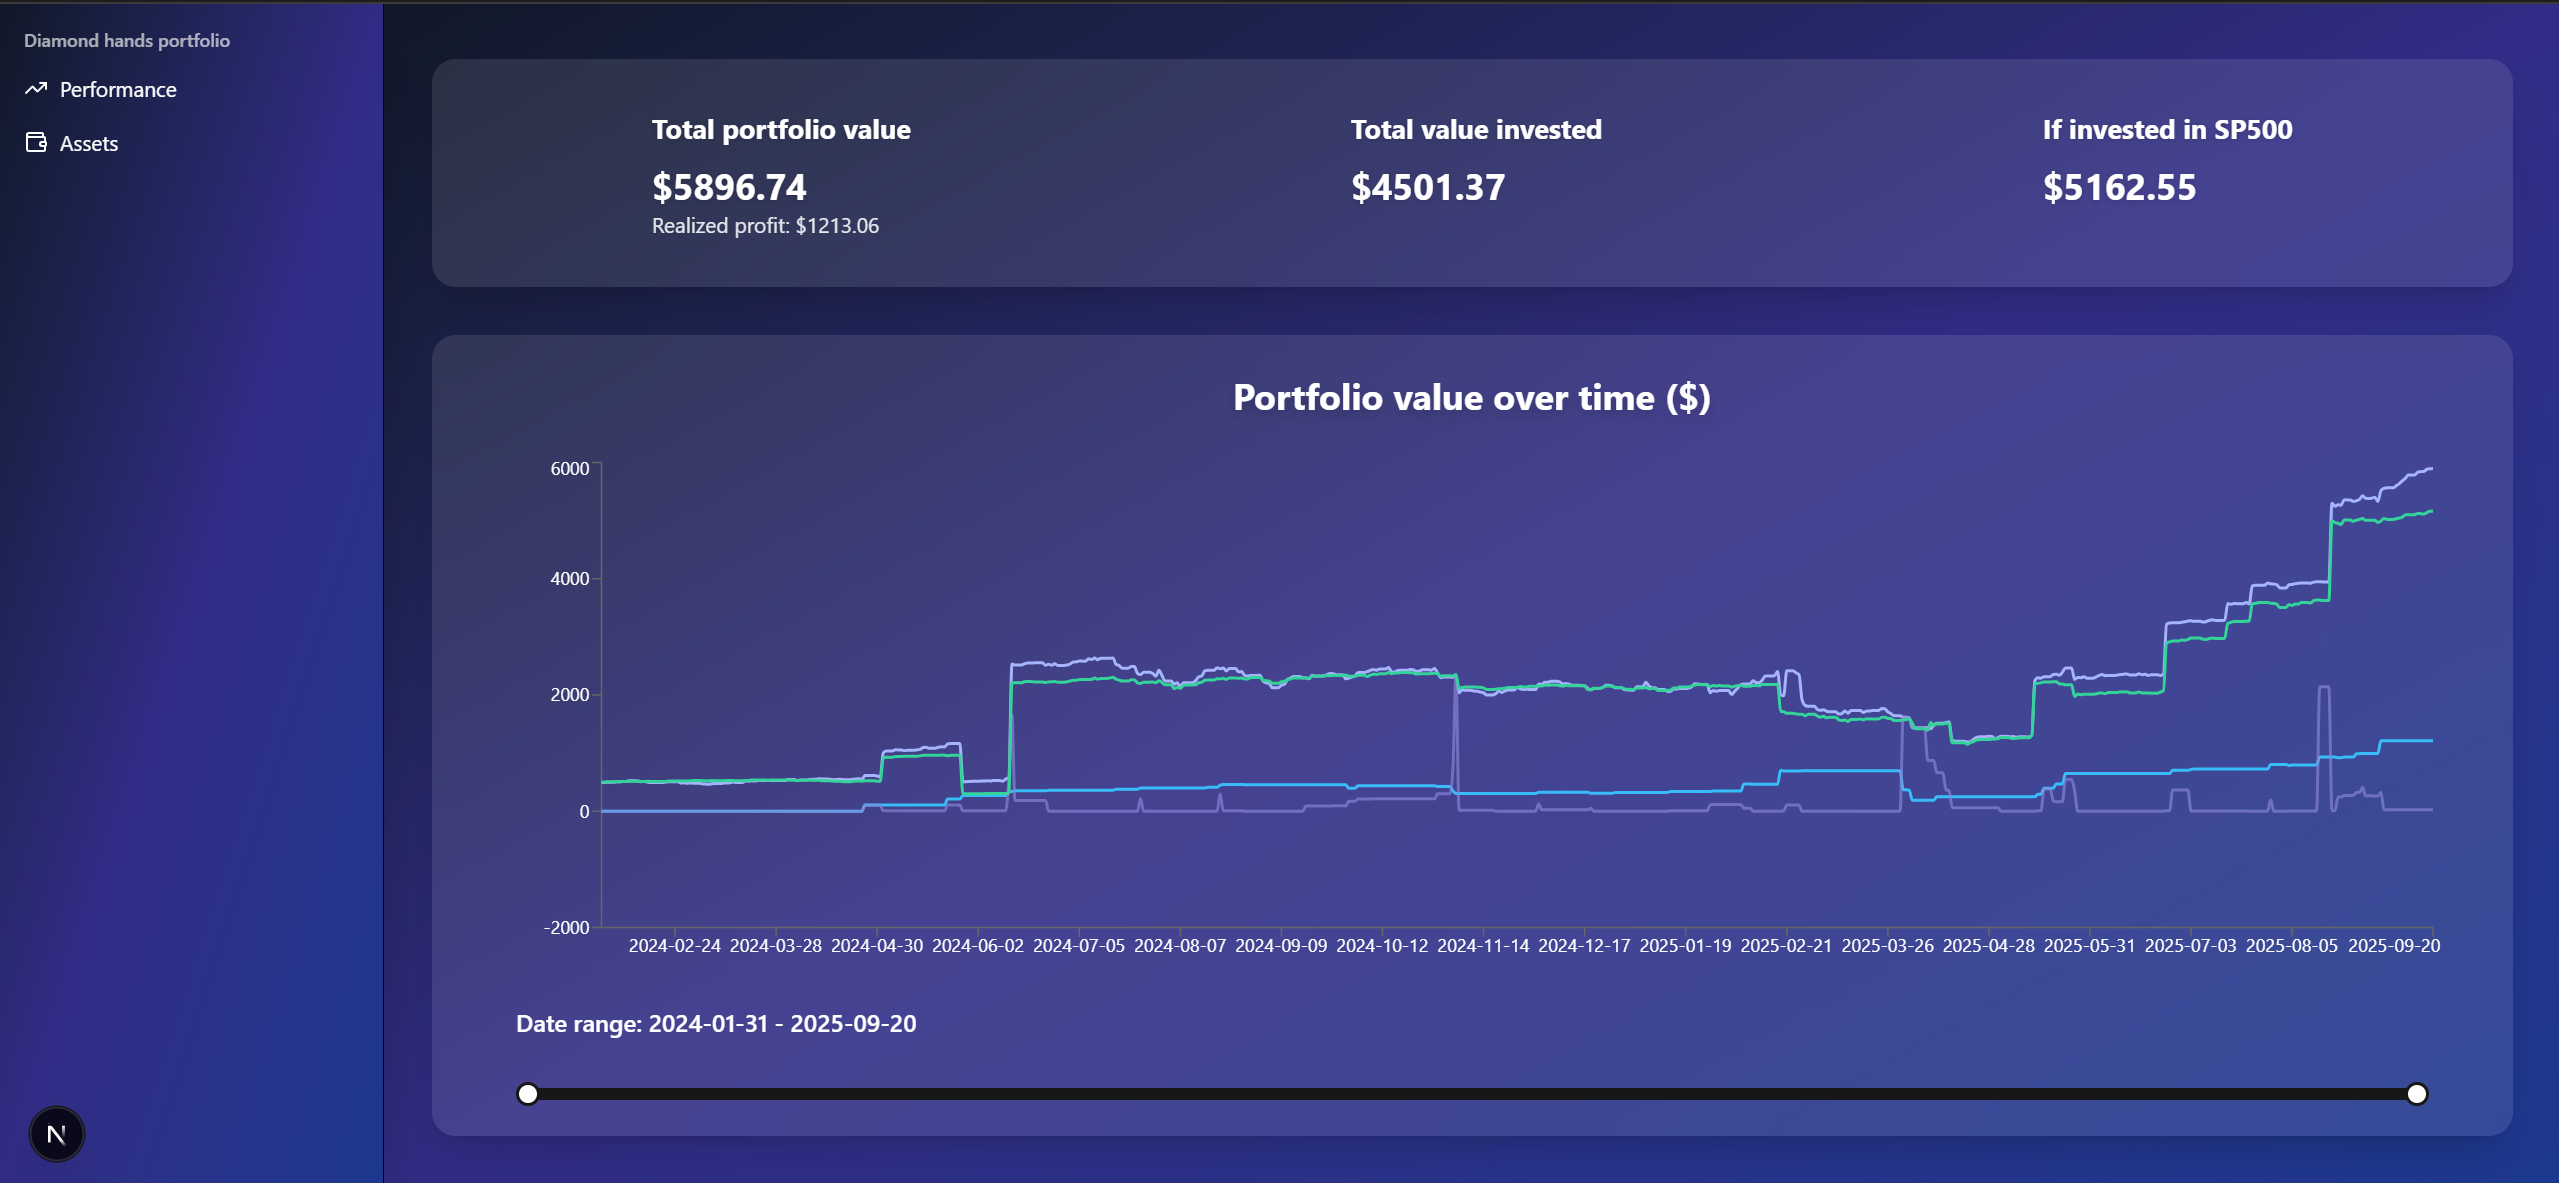
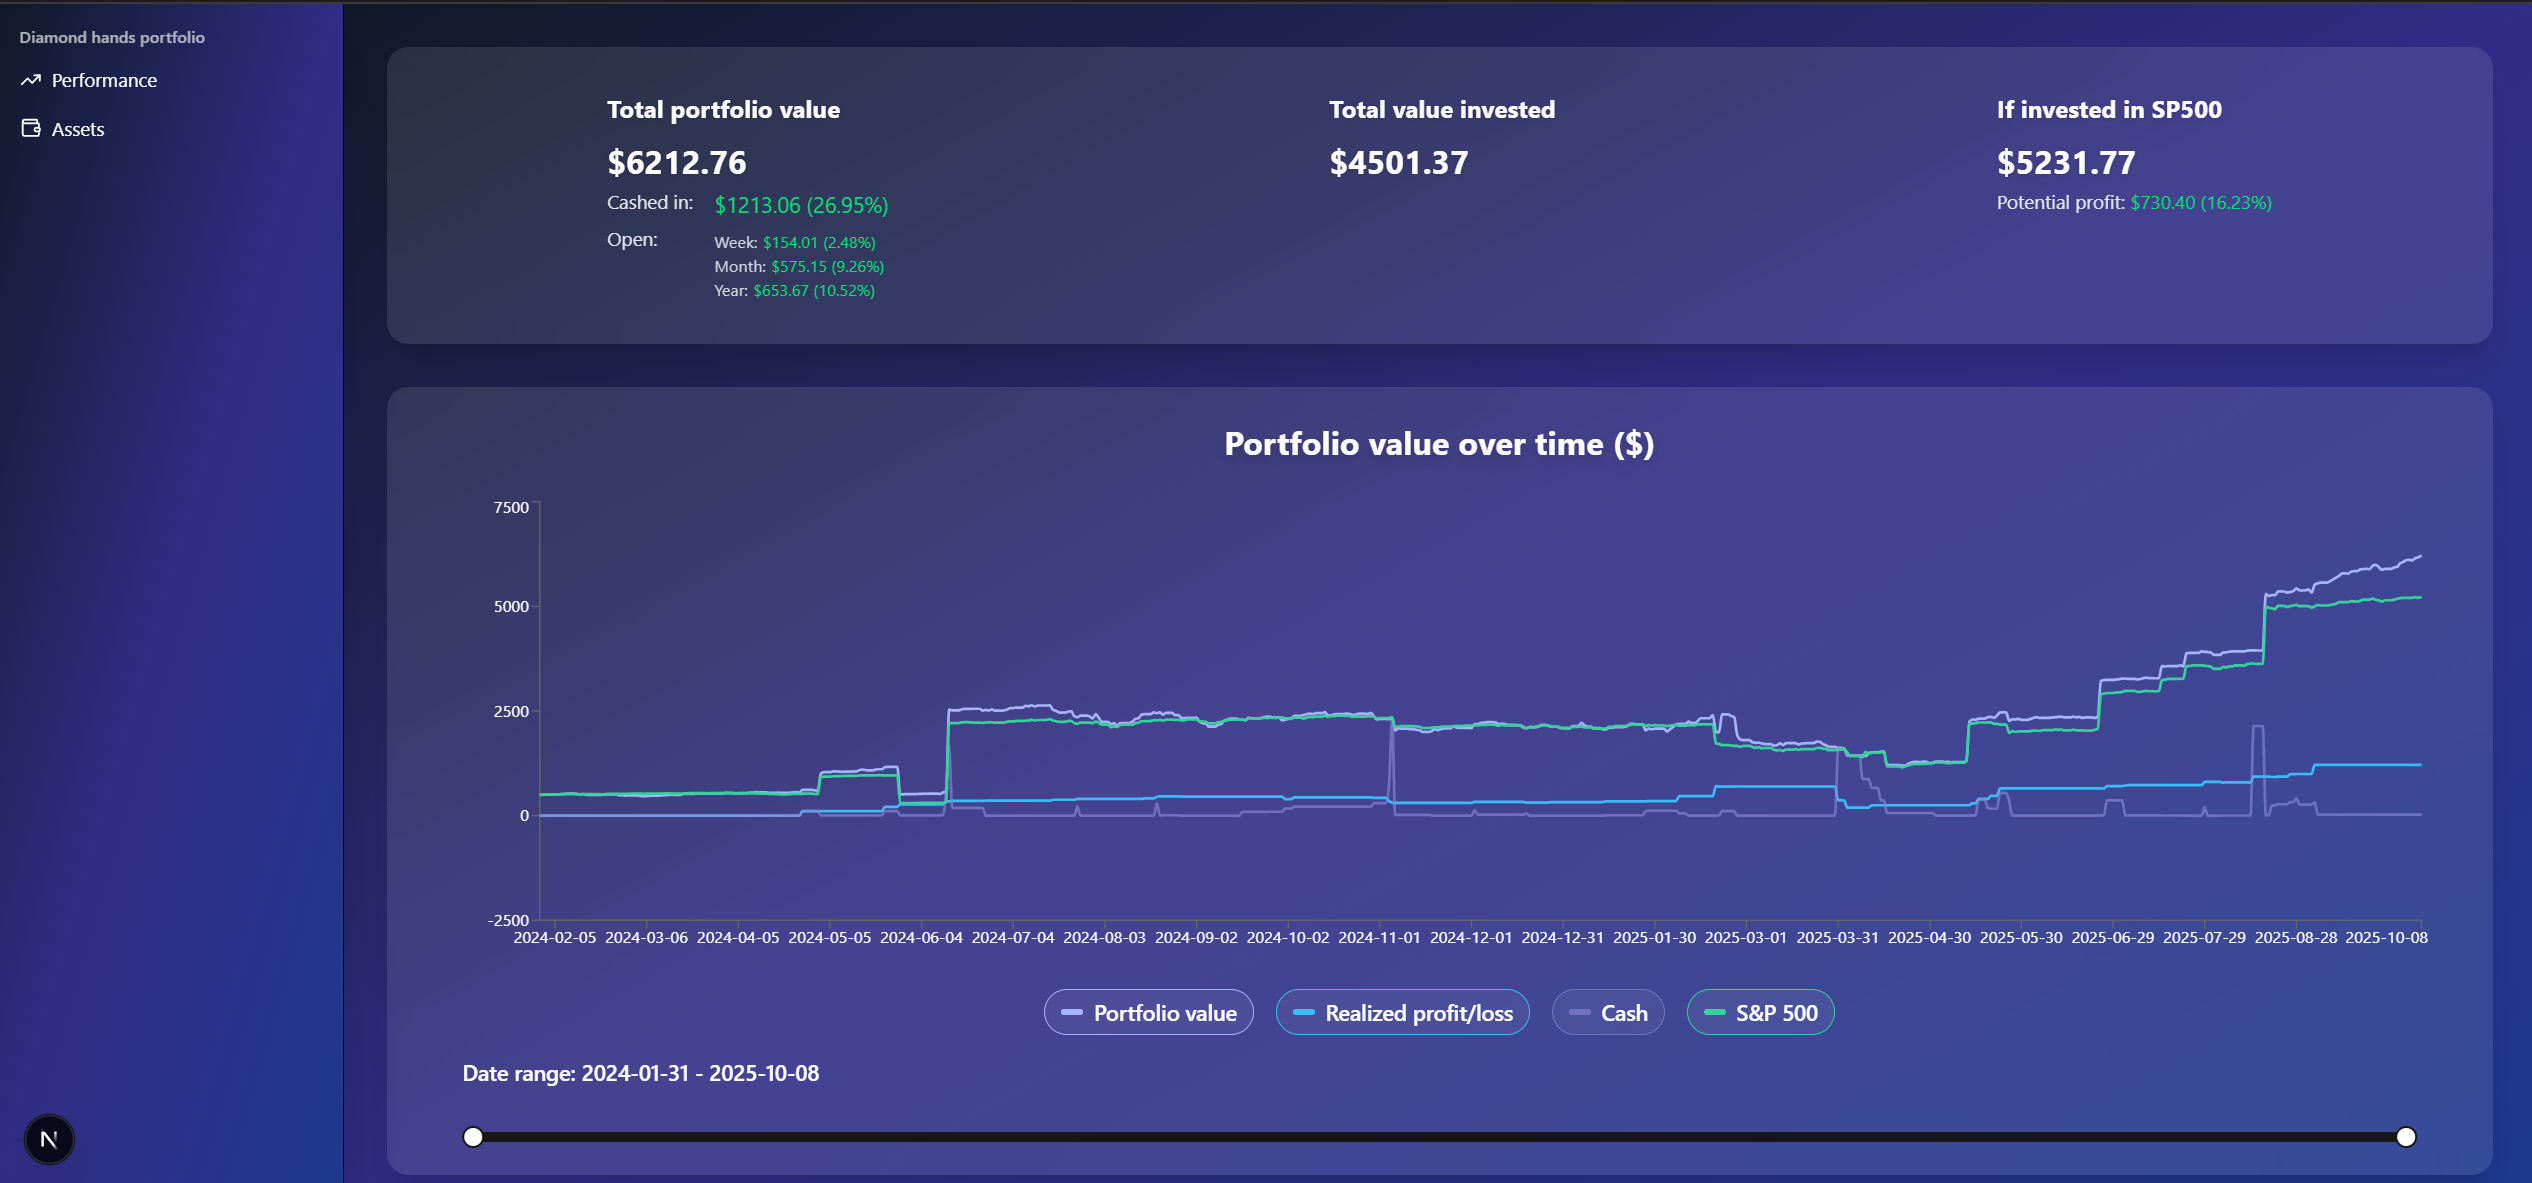
Display legend on performance chart, update screenshot

diff --git a/src/app/(analysis)/performance/PerformanceChart.tsx b/src/app/(analysis)/performance/PerformanceChart.tsx
@@ -13,6 +13,29 @@ const chartKeys = {
   sp500Value: "S&P 500",
 };
 
+const chartLineConfig = [
+  {
+    key: "portfolioValue",
+    label: chartKeys.portfolioValue,
+    color: "#a5b4fc",
+  },
+  {
+    key: "profitOrLoss",
+    label: chartKeys.profitOrLoss,
+    color: "#38bdf8",
+  },
+  {
+    key: "cash",
+    label: chartKeys.cash,
+    color: "#8884d8aa",
+  },
+  {
+    key: "sp500Value",
+    label: chartKeys.sp500Value,
+    color: "#34d399",
+  },
+];
+
 export function PerformanceChart() {
   const { portfolioAnalysis } = useStore();
 
@@ -51,6 +74,21 @@ export function PerformanceChart() {
     setRange([start, end]);
   };
 
+  // Track which lines are enabled
+  const [enabledLines, setEnabledLines] = useState<Record<string, boolean>>({
+    portfolioValue: true,
+    profitOrLoss: true,
+    cash: true,
+    sp500Value: true,
+  });
+
+  const toggleLine = (key: string) => {
+    setEnabledLines((prev) => ({
+      ...prev,
+      [key]: !prev[key],
+    }));
+  };
+
   return (
     <div className="bg-white/10 backdrop-blur-lg rounded-2xl shadow-xl w-full p-6">
       <h2 className="text-2xl font-bold text-white mb-6 text-center drop-shadow-lg">
@@ -77,44 +115,50 @@ export function PerformanceChart() {
               }}
               labelStyle={{ color: "#fff" }}
             />
-            <Line
-              isAnimationActive={false}
-              type="monotone"
-              dataKey="portfolioValue"
-              stroke="#a5b4fc"
-              strokeWidth={2}
-              dot={false}
-              name={chartKeys.portfolioValue}
-            />
-            <Line
-              isAnimationActive={false}
-              type="monotone"
-              dataKey="profitOrLoss"
-              stroke="#38bdf8"
-              strokeWidth={2}
-              dot={false}
-              name={chartKeys.profitOrLoss}
-            />
-            <Line
-              isAnimationActive={false}
-              type="monotone"
-              dataKey="cash"
-              stroke="#8884d8aa"
-              strokeWidth={2}
-              dot={false}
-              name={chartKeys.cash}
-            />
-            <Line
-              isAnimationActive={false}
-              type="monotone"
-              dataKey="sp500Value"
-              stroke="#34d399"
-              strokeWidth={2}
-              dot={false}
-              name={chartKeys.sp500Value}
-            />
+            {/* Render only enabled lines */}
+            {chartLineConfig.map(
+              (line) =>
+                enabledLines[line.key] && (
+                  <Line
+                    key={line.key}
+                    isAnimationActive={false}
+                    type="monotone"
+                    dataKey={line.key}
+                    stroke={line.color}
+                    strokeWidth={2}
+                    dot={false}
+                    name={line.label}
+                  />
+                ),
+            )}
           </LineChart>
         </ResponsiveContainer>
+      </div>
+      {/* Legend below chart */}
+      <div className="flex flex-wrap gap-4 justify-center mt-4">
+        {chartLineConfig.map((line) => (
+          <button
+            key={line.key}
+            onClick={() => toggleLine(line.key)}
+            className={`flex items-center gap-2 px-3 py-1 rounded-full font-medium transition cursor-pointer
+              ${enabledLines[line.key] ? "bg-white/5 text-white" : "bg-gray-700/40 text-gray-400"}
+              border border-white/30 hover:bg-white/30`}
+            style={{ borderColor: line.color }}
+            type="button"
+          >
+            <span
+              style={{
+                display: "inline-block",
+                width: 16,
+                height: 4,
+                background: line.color,
+                borderRadius: 2,
+                opacity: enabledLines[line.key] ? 1 : 0.4,
+              }}
+            />
+            {line.label}
+          </button>
+        ))}
       </div>
       <div className={"w-full mt-4 flex flex-col gap-8 px-8"}>
         <label className="text-white font-semibold">
